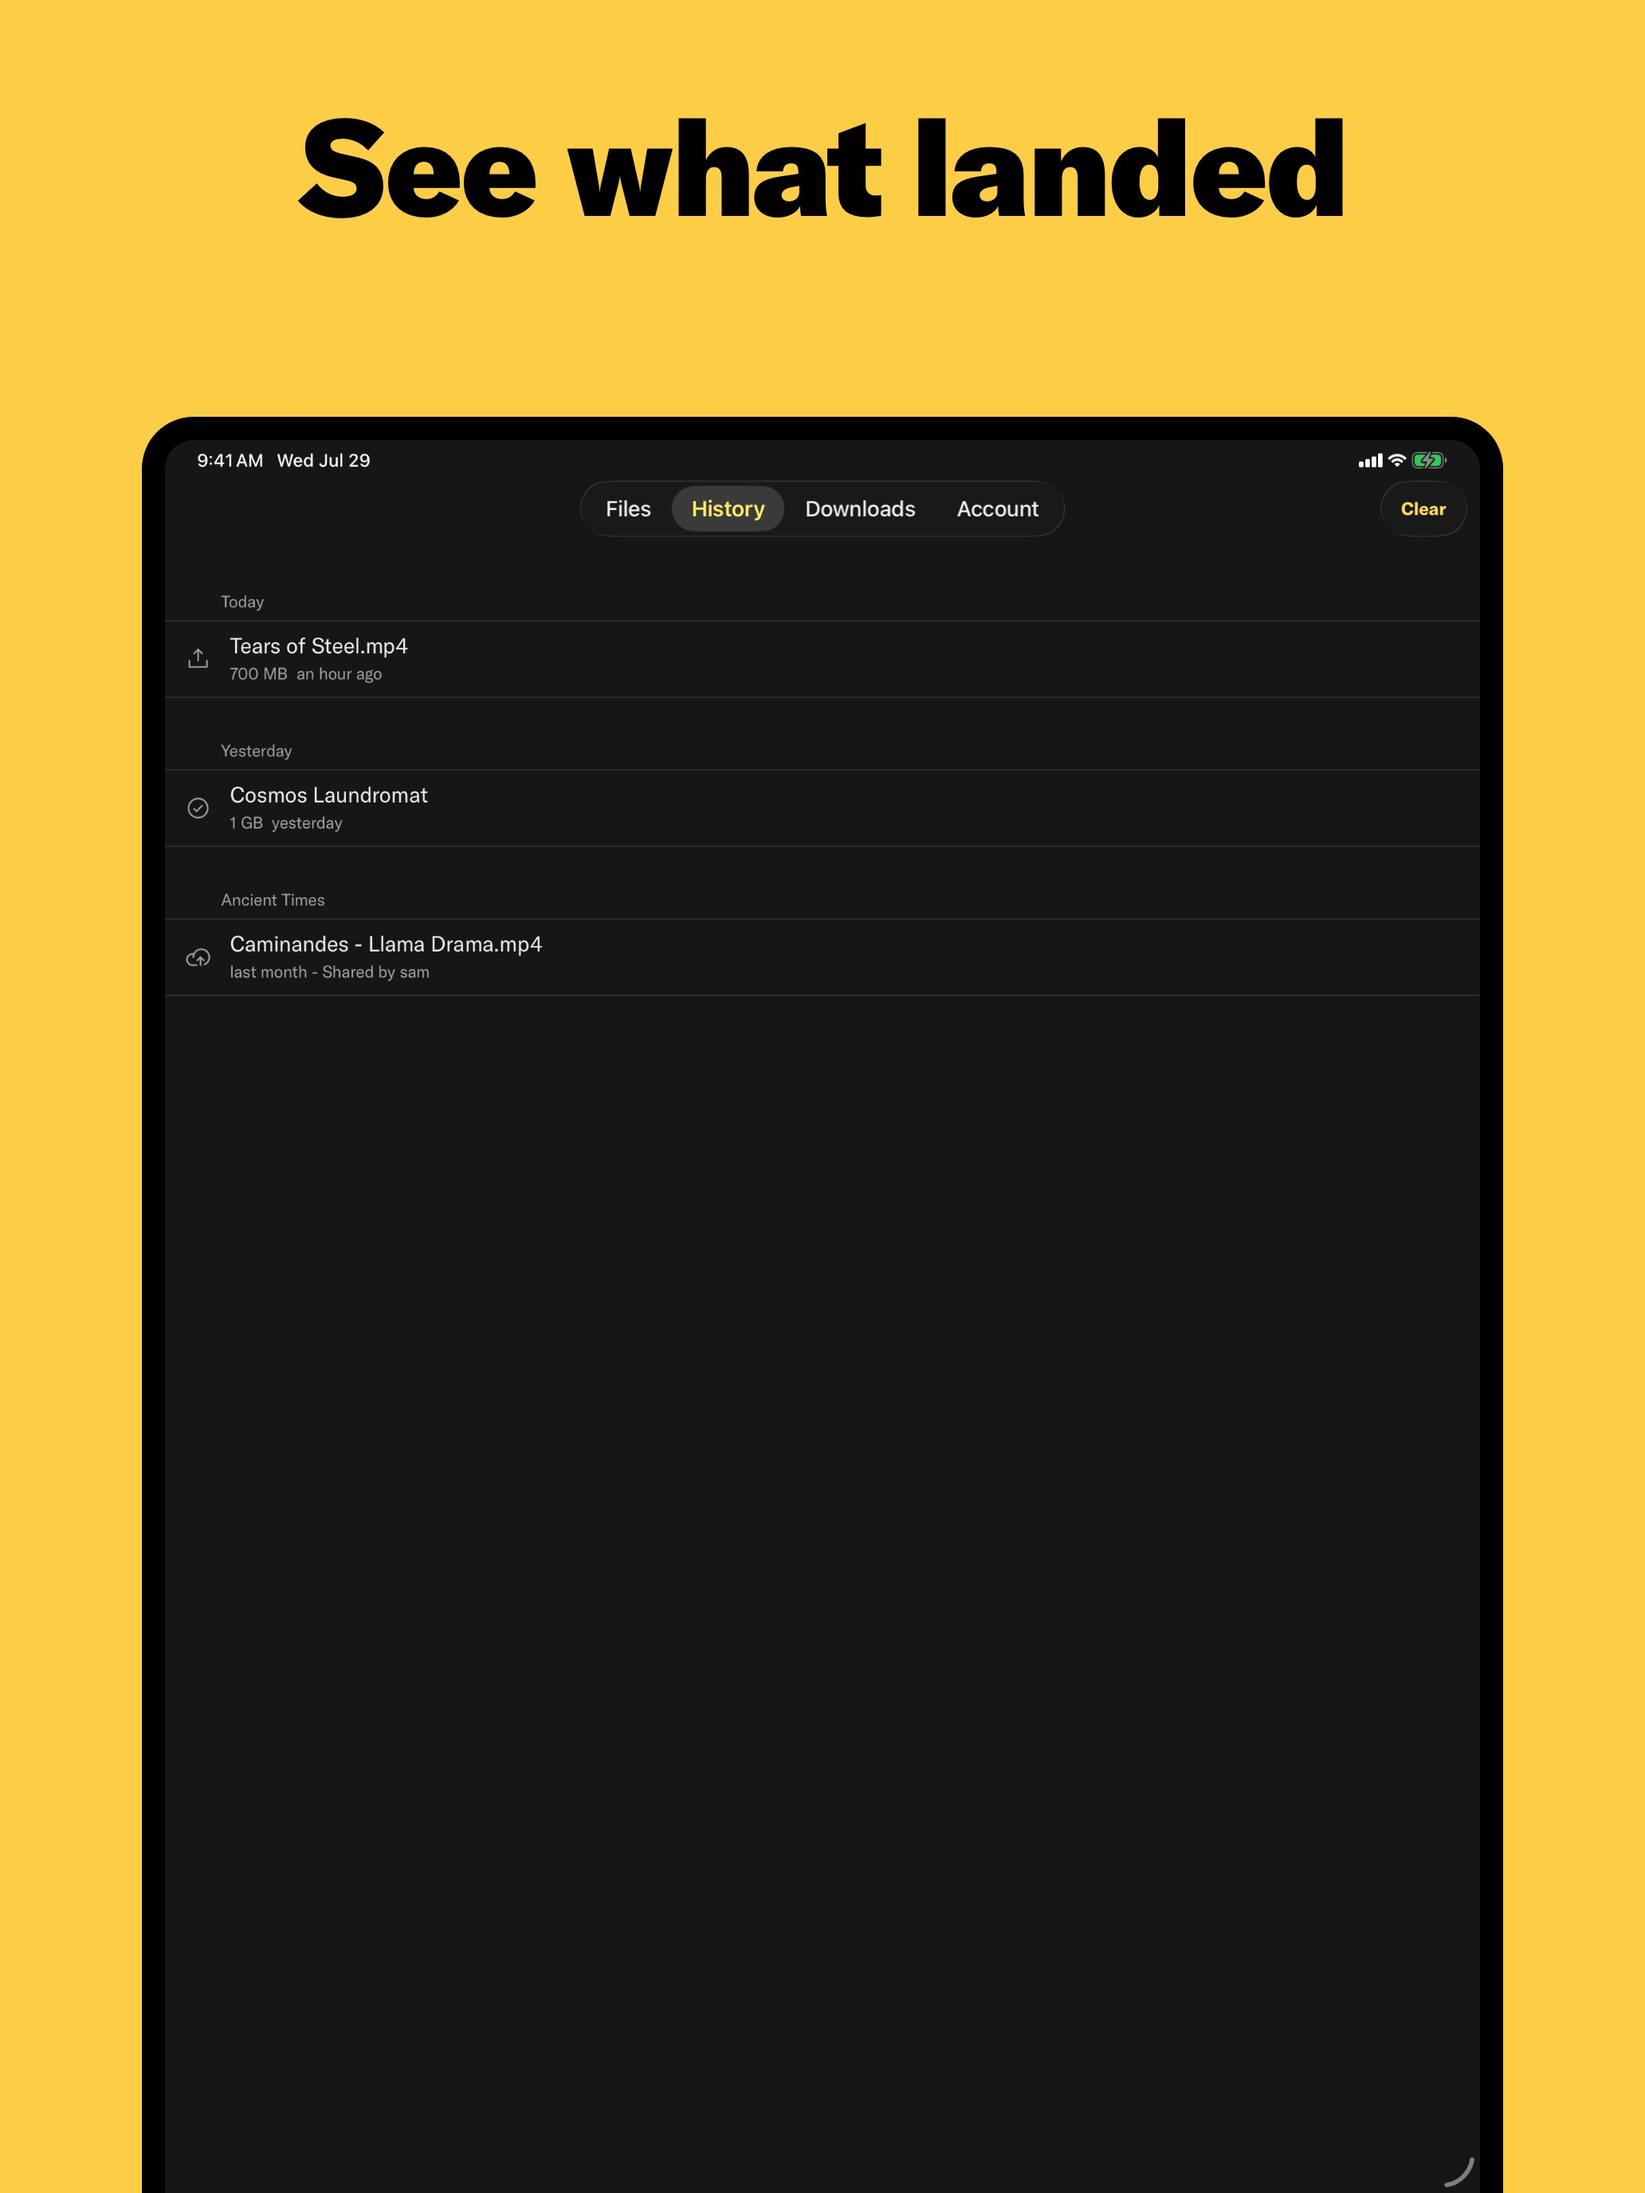
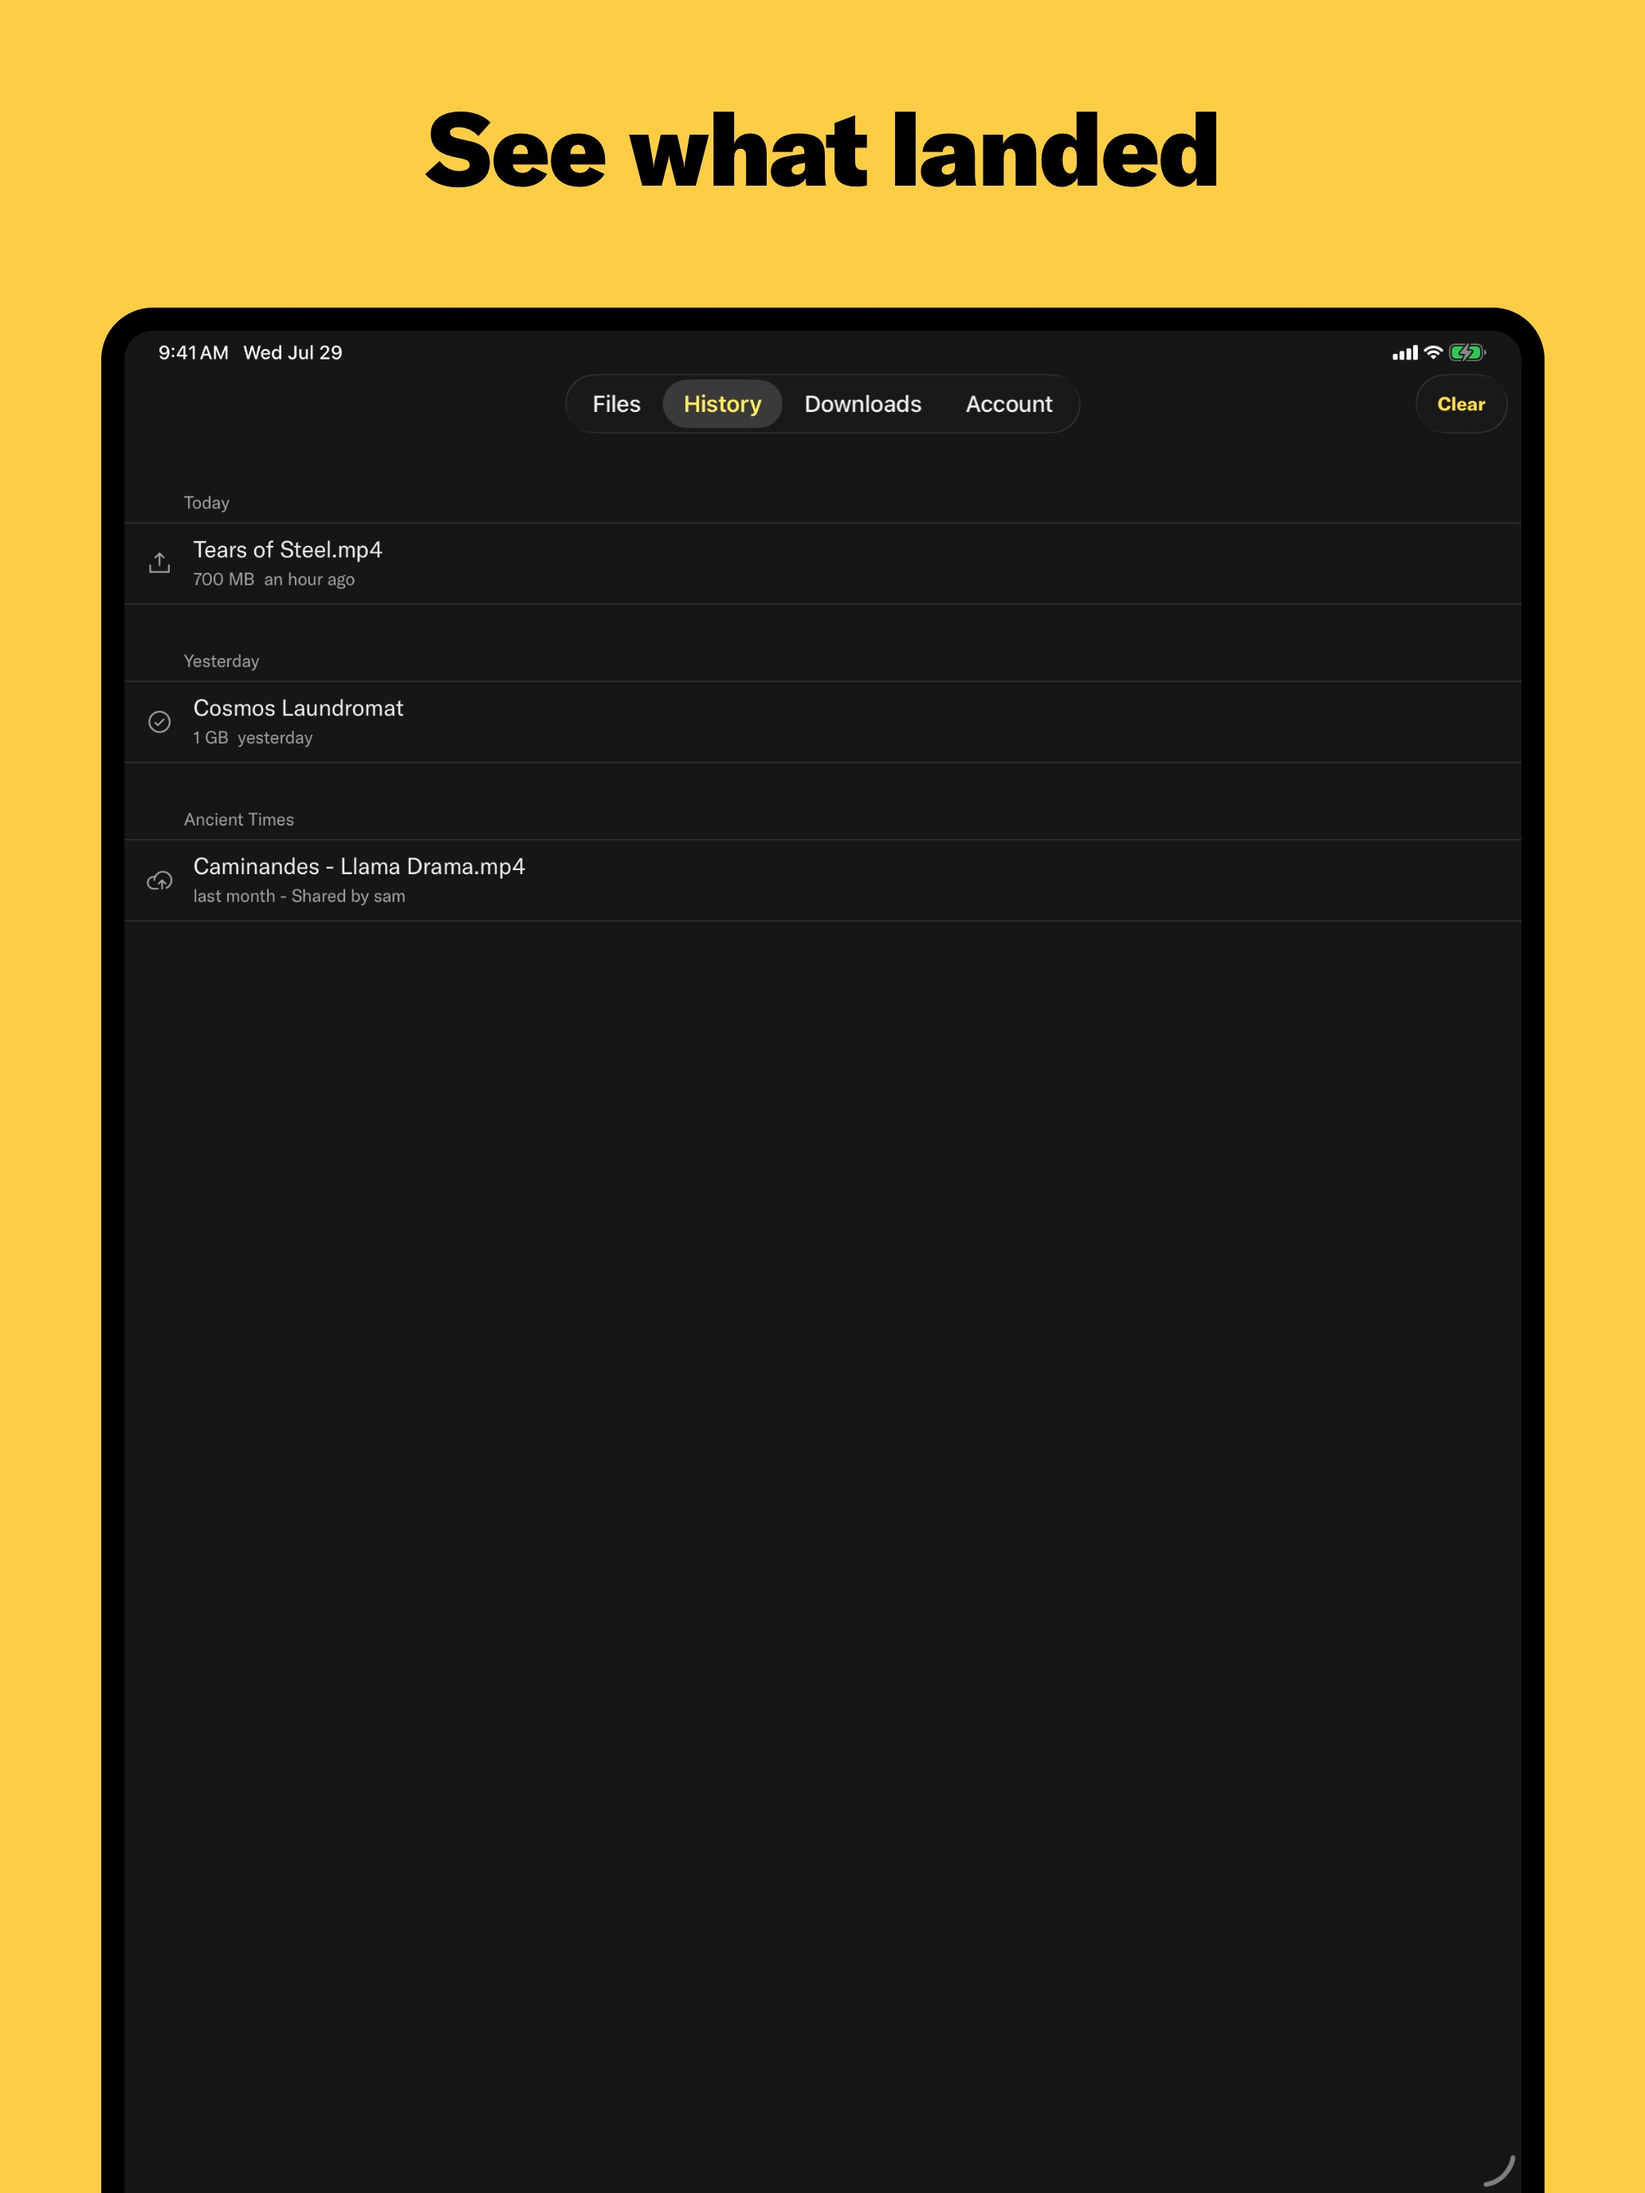
fix(store): tighten the iPad caption so it is not floating in yellow
The band between caption and device measured 208px on every one line iPad slot —
7.6% of the canvas — and 22px on the two line one. Consistent with iPhone in
percentage terms, but it reads heavier there: the caption is one big line in a
much wider yellow field.

The cause is the fix for the two line caption. Raising captionBlock to fit two
lines of a width-scaled font left every one line caption sitting in an oversized
box, because the text is top-aligned in it.

captionSize is lowered instead, so every iPad caption is a single line and the
block can be tight. The gap is now a uniform 120px, 4.3%, on all five slots —
which iPhone's are not, since its slot 1 wraps. deviceWidth refills the taller
row that leaves behind.

The caption-fit error no longer claims "two lines", which was only ever the
iPhone block's capacity and is now wrong for iPad, and it names the per-device
override as a remedy.

Only the five iPad images change.

Changed region(s): [[0.062, 0.0312, 0.9612, 1.0], [0.2481, 0.375, 0.3101, 0.4062]]

diff --git a/scripts/store-images.ts b/scripts/store-images.ts
@@ -503,8 +503,8 @@ async function render(
     // Thrown rather than fail()ed: fail() exits the process, which would skip
     // main's finally and leave Chromium running and .staging on disk.
     throw new RenderError(
-      `${item.deviceId} slot ${item.slot}: "${item.caption}" needs more than the two lines the caption row reserves.`,
-      "Shorten it in Config/StoreCaptions.json, or raise captionBlock in the LAYOUT table for every image.",
+      `${item.deviceId} slot ${item.slot}: "${item.caption}" does not fit the caption row.`,
+      "Shorten it in Config/StoreCaptions.json, or raise captionBlock — in the LAYOUT table for every device, or in this device's layout block in Config/StoreScreenshots.json. Raising it also wants deviceWidth adjusted, which the device-fit check below enforces.",
     );
   }
 
